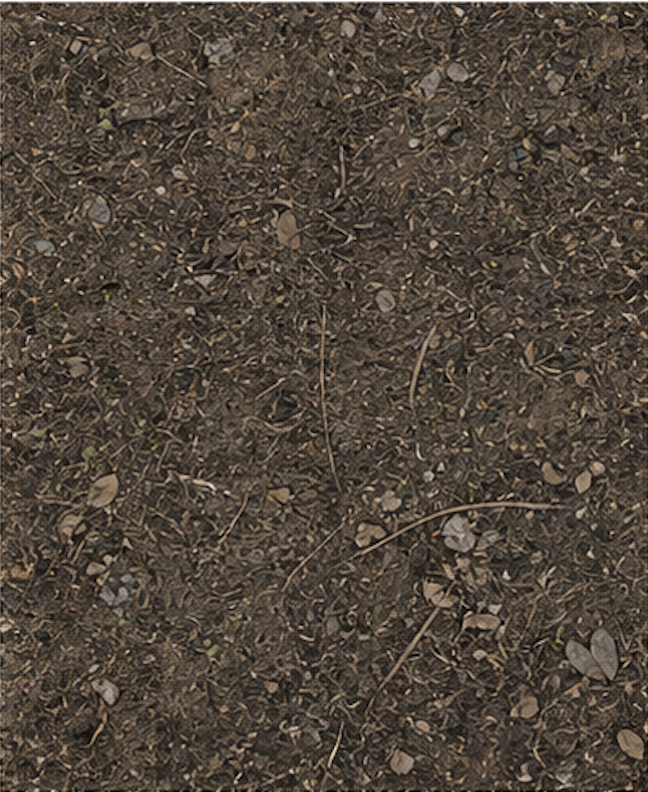
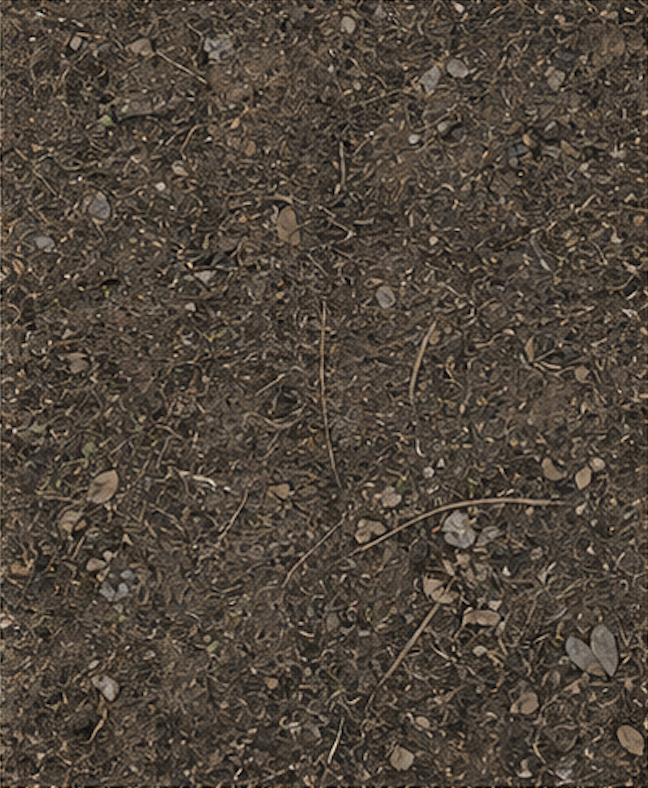
assets: updated grassdry texture; bobcat sprint speed doubled

diff --git a/src/player/Bobcat.js b/src/player/Bobcat.js
@@ -71,7 +71,7 @@ function buildController(gltf) {
     yaw: 0,
     speed: 0,
     walkSpeed: 3.2,
-    runSpeed: 7.4,
+    runSpeed: 14.8,
     mixer,
     actions,
     setGroundFn(fn) { groundFn = fn; }
@@ -105,29 +105,7 @@ function buildController(gltf) {
     state.position.z = Math.max(-halfH, Math.min(halfH, state.position.z));
 
     state.position.y = groundFn(state.position.x, state.position.z);
-
-    // Sample the ground at four points around the bobcat's footprint and build
-    // an orientation from the slope. The yaw direction (sin, 0, cos) plus the
-    // terrain normal give us a full basis without any gimbal-y axis math.
-    const fp = 0.45; // footprint half-length / half-width in metres
-    const sY = Math.sin(state.yaw), cY = Math.cos(state.yaw);
-    const fxw = state.position.x + sY * fp, fzw = state.position.z + cY * fp;
-    const bxw = state.position.x - sY * fp, bzw = state.position.z - cY * fp;
-    const rxw = state.position.x + cY * fp, rzw = state.position.z - sY * fp;
-    const lxw = state.position.x - cY * fp, lzw = state.position.z + sY * fp;
-    const hFront = groundFn(fxw, fzw), hBack = groundFn(bxw, bzw);
-    const hRight = groundFn(rxw, rzw), hLeft = groundFn(lxw, lzw);
-    tmpFwd.set(sY * 2 * fp, hFront - hBack, cY * 2 * fp).normalize();
-    tmpRight.set(cY * 2 * fp, hRight - hLeft, -sY * 2 * fp).normalize();
-    tmpUp.crossVectors(tmpFwd, tmpRight).normalize();
-    if (tmpUp.y < 0) tmpUp.negate();
-    // Re-orthogonalise: project yaw forward onto the plane perpendicular to up.
-    tmpFwdYaw.set(sY, 0, cY);
-    tmpFwd.copy(tmpFwdYaw).addScaledVector(tmpUp, -tmpUp.dot(tmpFwdYaw)).normalize();
-    tmpRight.crossVectors(tmpUp, tmpFwd).normalize();
-    tmpBasis.makeBasis(tmpRight, tmpUp, tmpFwd);
-    tmpQuat.setFromRotationMatrix(tmpBasis);
-    pivot.quaternion.slerp(tmpQuat, Math.min(1, dt * 14));
+    pivot.rotation.set(0, state.yaw, 0);
 
     if (mixer) mixer.update(dt);
     else {

diff --git a/src/main.js b/src/main.js
@@ -112,6 +112,12 @@ async function main() {
   const plants = createInstancedPlants({ atlas, instances, dem });
   for (const tier of plants.tiers) scene.add(tier.mesh);
 
+  // Debug toggles for headless probing.
+  const sp = new URLSearchParams(window.location.search);
+  if (sp.has('noplants')) for (const t of plants.tiers) t.mesh.visible = false;
+  if (sp.has('noterrain')) terrain.mesh.visible = false;
+  if (sp.has('nocat')) setTimeout(() => bobcat.object.visible = false, 100);
+
   // ---------- player ----------
   setLoadingProgress(0.88, 'Waking bobcat…');
   const bobcat = await loadBobcat({
